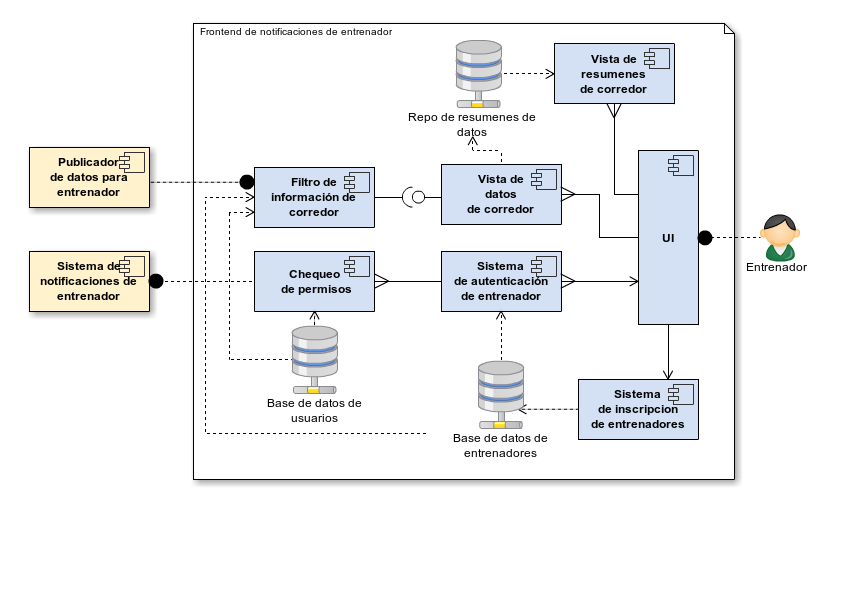
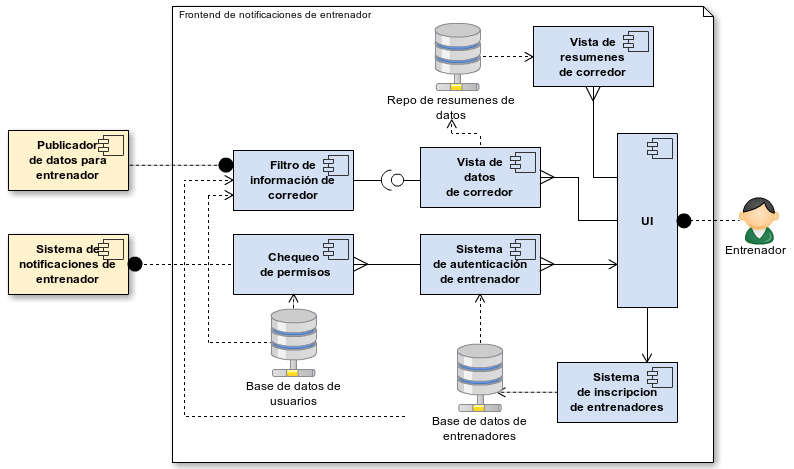
Informe mas o menos cerrado

Changed region(s): [[0.0, 0.0, 0.9975, 1.0], [0.2116, 0.0, 0.4836, 0.0597]]

diff --git a/TP2/Atributos.tex b/TP2/Atributos.tex
@@ -1,3 +1,8 @@
+A continuación incluimos los atributos de calidad que identificamos en base al trabajo práctico y
+al QAW (\textit{Quality Attribute Workshop}) realizado en clase. También incluimos una justificación de como
+logramos los mismos en la arquitectura. Para ello justificamos las tácticas usadas mediante el libro de 
+arquitectura de la materia~\cite{lenbass}.
+
 \subsection{Atributo de Usabilidad}
 El sistema debe poder ser utilizado por personas con capacidades diferentes de movibilidad, visión o audición de la manera más satisfactoria posible.
 
@@ -152,8 +157,8 @@ El sistema debe dar respuesta rápida ante situaciones de riesgo médico detecta
 \paragraph{Justificación en la arquitectura}
 Para lograr este atributo de performance se realizan varias tácticas que involucran a numerosos componentes: 
 \begin{itemize}
-  \item \texttt{Notificador con prioridad} (ver \ref{conexionEncriptadaConSSL}).
-  \item \texttt{Sistema de datos biomédicos} \ref{dispMedicos}. Particularmente: 
+  \item \texttt{Notificador con prioridad} (ver~\ref{conexionEncriptadaConSSL}).
+  \item \texttt{Sistema de datos biomédicos}~\ref{dispMedicos}. Particularmente: 
   \begin{itemize}
     \item \texttt{Etiquetador de señal}.
     \item \texttt{Router de mediciones biomédicas}.
@@ -162,13 +167,13 @@ Para lograr este atributo de performance se realizan varias tácticas que involu
     \item \texttt{Módulo de transmisión confiable}.
   \end{itemize}
 \end{itemize}
-COMPLETAR UN POCO ESTO NO ME DA MÁS LA CABEZA
-Dado que las notificaciones del dispositivo biomédico tienen la mayor de las prioridades (\emph{P0}), son \emph{handleadas} casi isntantáneamente una vez que son recibidas por el \texttt{notificador con prioridad}. 
+
+Dado que las notificaciones del dispositivo biomédico tienen la mayor de las prioridades (\emph{P0}), son \emph{handleadas} casi instantáneamente una vez que son recibidas por el \texttt{notificador con prioridad}. 
 
 Las principal táctica utilizada es \emph{introduce concurrency}. 
 
-
 \subsection{Atributo de Disponibilidad}
+
 El sistema debe lograr que un mensaje de pedido de emergencia llegue al servicio de emergencias de manera que se disminuya en lo mínimo posible el riesgo de vida del paciente.
 
 \begin{itemize}
@@ -182,6 +187,9 @@ El sistema debe lograr que un mensaje de pedido de emergencia llegue al servicio
 
 \paragraph{Justificación en la arquitectura}
 
+La principal táctica utilizada para esto es implementar transmisión confiable de manera que se reintente enviar
+el mensaje tantas veces como sea necesario para que llegue. Esto lo podemos ver como un tipo de \textit{state
+resincronization}. 
 
 \subsection{Atributo de Disponibilidad}
 El sistema debe estar en funcionamiento todo el tiempo que sea posible.
@@ -197,7 +205,12 @@ El sistema debe estar en funcionamiento todo el tiempo que sea posible.
 
 \paragraph{Justificación en la arquitectura}
 
-
+Para implementar esto utilizamos \texttt{shadow} en varias partes del trabajo práctico de manera que el sistema
+parezca que esta andando (es decir, de respuesta al usuario) lo mayor posible. También utilizamos estrategias
+de \textit{ping-echo} para salud del sistema de procesamiento de datos y utilizamos caches de datos para no 
+necesitar acceder constantemente al servidor. También utilizamos control de frecuencia de sampleo para manejar
+la lectura de datos de cinemática por parte del sistema y usamos colas en los servicios de salida para evitar
+sobrecargar (porque usamos tranmisión con confirmación) a los servicios del sistema.
 
 \subsection{Atributo de Modificabilidad}
 Se desea poder agregar nuevos modelos de dispositivos biométricos.
@@ -213,7 +226,12 @@ Se desea poder agregar nuevos modelos de dispositivos biométricos.
 
 \paragraph{Justificación en la arquitectura}
 
-
+Para esto utilizamos un sistema de fronteo de servicios médicos que se ocupa de routear los mensajes a los
+distintos sistemas (en particular el \texttt{Rastreador de señales de riesgo} y el sistema de envío de datos
+médicos a procesar) y colecciona de los diversos dispositivos los datos que necesita. Esto separa la interfaz
+de procesamiento de los datos de la generación de los mismos y facilita el trabajo de escribir drivers para los
+dispositivos de manera que solo necesitemos formatear las mediciones a lo que necesita el \texttt{Router de
+mediciones biomédicas}
 
 \subsection{Atributo de Modificabilidad}
 El sistema debe poder adaptarse a nuevo hardware de manera de poder cambiar el hardware actual a otro para aumentar el poder de cómputo.
@@ -229,7 +247,11 @@ El sistema debe poder adaptarse a nuevo hardware de manera de poder cambiar el h
 
 \paragraph{Justificación en la arquitectura}
 
-
+Esto se logra instalando el \texttt{Balanceador de carga} que se encarga de mantener una flota de unidades de
+procesamiento funcionando y asignarles trabajo, y luego un sistema de \texttt{Colector de procesamiento} que
+junta los datos de estos. Por lo tanto para agregar hardware, solo es necesario conectarlo y agregar su 
+existencia en los dos sistemas mencionados, lo cual permite escalar horizontalmente con un esfuerzo de 
+configuración lo más mínimo posible.
 
 \subsection{Atributo de Modificabilidad}
 El sistema debe permitir que se adapten todo tipo de dispositivos, no solo anteojos sino también relojes de pulsera, mp3, etc.
@@ -245,3 +267,18 @@ El sistema debe permitir que se adapten todo tipo de dispositivos, no solo anteo
 
 \paragraph{Justificación en la arquitectura}
 
+Esto se logra mediante dos objetivos:
+
+\begin{itemize}
+	\item 
+		Separamos las entradas de dispositivos del sistema de interpretación de comandos, de manera que agregar
+		un nuevo dispositivo solo requiere escribir el código para tomar su entrada y pasarla a un texto que
+		pueda usar el interprete de comandos (y luego estos comandos son usados por los demás sistemas).
+	\item 
+		Separamos las funcionalidades de presentación (que denominamos estímulos en el trabajo) de las 
+		notificaciones a mostrar y sus prioridades. De esta manera solo es 
+\end{itemize}
+
+De esta manera \textit{anticipamos cambios esperados}, \textit{abstraemos servicios comunes} y utilizamos
+\textit{adhesion a protocolos determinados} para separar los detalles particulares del dispositivo lo mejor
+posible.

diff --git a/TP2/notificadorConPrioridad.tex b/TP2/notificadorConPrioridad.tex
@@ -1,7 +1,7 @@
 \subsection{Notificador con prioridad}\label{notificadorConPrioridad}
+
 \subsubsection{Diagrama}
- \ig{l}{0.9}{notificadorConPrioridad.png}{Diagrama de componentes y
-conectores del notificador con prioridad.}
+ \ig{p}{0.6}{notificadorConPrioridad.png}{Diagrama de componentes y conectores del notificador con prioridad.}
 
 \subsubsection{Detalle}
 El conector \textbf{\texttt{notificador con prioridades}} tiene como objetivo recibir numerosos pedidos de notificaciones de distintos componentes y enviárselos a quien corresponda, siguiendo un orden de prioridades. De esta forma, se busca evitar que, por ejemplo, notificaciones del \texttt{sistema de comentarios} opaquen o retrasen notificaciones más importantes, tales como la del \texttt{subsistema de datos biomédicos}.

diff --git a/TP2/conexionEncriptadaSSL.tex b/TP2/conexionEncriptadaSSL.tex
@@ -1,7 +1,7 @@
 \subsection{Conexión encriptada con ssl}\label{conexionEncriptadaConSSL}
  
 \subsubsection{Diagrama}
-\ig{l}{0.8}{conexionEncriptada.png}{Diagrama de componentes y conectores de sistema de conexion encriptada.}
+\ig{p}{0.6}{conexionEncriptada.png}{Diagrama de componentes y conectores de sistema de conexion encriptada.}
 
 \subsubsection{Detalle}
 \textbf{Nota}: se está asumiendo que en el repositorio de certificados ya se tienen los correspondientes a las autoridades certificantes usadas.

diff --git a/TP2/informe.tex b/TP2/informe.tex
@@ -120,6 +120,7 @@
 
 \input{arquitectura}
 
+\newpage
 \input{comparacion}
 
 \addcontentsline{toc}{section}{Referencias}
@@ -130,6 +131,11 @@
 	Brooks, Frederick P., Jr. (1982).
 	\newblock {\em ``The Tar Pit'', published in The Mythical Man-Month}.
 	\newblock Anniversary Edition. ISBN 0-201-83595-9.
+
+\bibitem{lenbass}
+	Bass, Len;  Clements, Paul; Kazman, Rick.
+	\newblock {\em Software Architecture in Practice}.
+	\newblock Third Edition. ISBN 0-321-81573-4.
 
 \end{thebibliography}
 

diff --git a/TP2/cifradorHomo.tex b/TP2/cifradorHomo.tex
@@ -1,6 +1,6 @@
 \subsection{Cifrador homomórfico}\label{cifradorHomo}
 \subsubsection{Diagrama}
-\ig{l}{0.8}{cifradorHomomorfico.png}{Diagrama de componentes y conectores para cifrador homomórfico.}
+\ig{p}{0.6}{cifradorHomomorfico.png}{Diagrama de componentes y conectores para cifrador homomórfico.}
 
 
 \subsubsection{Detalle}

diff --git a/TP2/notificacionesEntrenador.tex b/TP2/notificacionesEntrenador.tex
@@ -1,6 +1,6 @@
 \subsubsection{Notificaciones entrenador}
 
-\ig{l}{0.9}{notificacionesEntrenador.png}{Diagrama de componentes y
+\ig{l}{0.6}{notificacionesEntrenador.png}{Diagrama de componentes y
 conectores de notificaciones de entrenador.}
 
 \subsubsection{Detalle}
